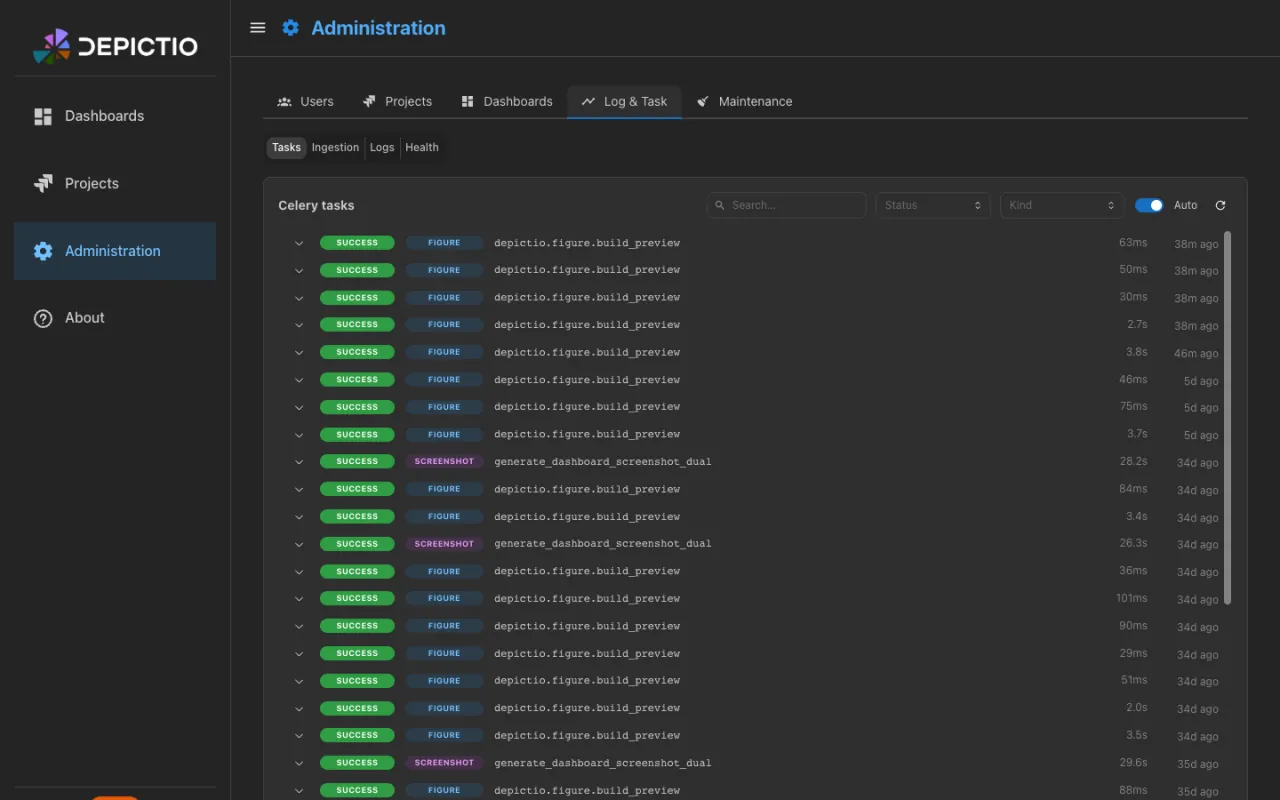
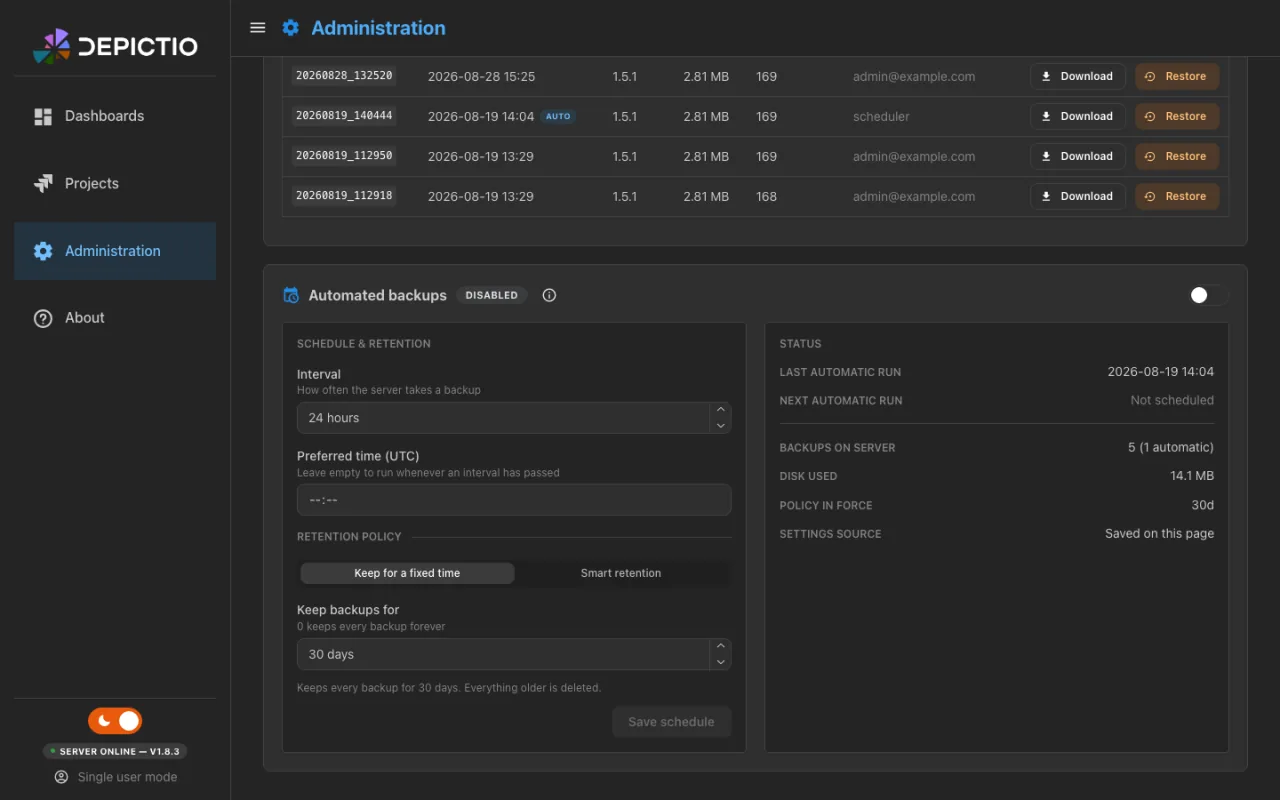
docs(landing): the Operate band shows the admin Backups tab
Replaces twenty identical figure.build_preview rows with the snapshots on
the server, one of them taken by the scheduler, above the schedule and
retention panel, and leads the copy with backups so image and prose agree.

Claude-Session: https://claude.ai/code/session_01Nf4c6hn9wbUq8buVF4tb3c

diff --git a/docs/index.md b/docs/index.md
@@ -532,8 +532,8 @@ hide:
 
     <article class="feature-row">
       <div class="feature-row-visual">
-        <button type="button" class="feature-frame" aria-label="Enlarge the screenshot: the admin Log and Task view">
-          <img class="only-light" src="images/landing/operate_light.webp" alt="The admin Log and Task view listing Celery tasks and ingestion runs" loading="lazy">
+        <button type="button" class="feature-frame" aria-label="Enlarge the screenshot: the admin Backups tab">
+          <img class="only-light" src="images/landing/operate_light.webp" alt="The admin Backups tab: the snapshots on the server, and the schedule and retention policy that produced them" loading="lazy">
           <img class="only-dark" src="images/landing/operate_dark.webp" alt="" loading="lazy">
           <span class="feature-zoom" aria-hidden="true"><svg xmlns="http://www.w3.org/2000/svg" viewBox="0 0 24 24"><path d="M15.5,14L20.5,19L19,20.5L14,15.5V14.71L13.73,14.43C12.59,15.41 11.11,16 9.5,16A6.5,6.5 0 0,1 3,9.5A6.5,6.5 0 0,1 9.5,3A6.5,6.5 0 0,1 16,9.5C16,11.11 15.41,12.59 14.43,13.73L14.71,14H15.5M9.5,14C12,14 14,12 14,9.5C14,7 12,5 9.5,5C7,5 5,7 5,9.5C5,12 7,14 9.5,14M12,10H10V12H9V10H7V9H9V7H10V9H12V10Z"/></svg></span>
         </button>
@@ -541,7 +541,7 @@ hide:
       <div class="feature-row-text">
         <span class="feature-kicker"><svg xmlns="http://www.w3.org/2000/svg" viewBox="0 0 24 24" aria-hidden="true"><path d="M12,15.5A3.5,3.5 0 0,1 8.5,12A3.5,3.5 0 0,1 12,8.5A3.5,3.5 0 0,1 15.5,12A3.5,3.5 0 0,1 12,15.5M19.43,12.97C19.47,12.65 19.5,12.33 19.5,12C19.5,11.67 19.47,11.34 19.43,11L21.54,9.37C21.73,9.22 21.78,8.95 21.66,8.73L19.66,5.27C19.54,5.05 19.27,4.96 19.05,5.05L16.56,6.05C16.04,5.66 15.5,5.32 14.87,5.07L14.5,2.42C14.46,2.18 14.25,2 14,2H10C9.75,2 9.54,2.18 9.5,2.42L9.13,5.07C8.5,5.32 7.96,5.66 7.44,6.05L4.95,5.05C4.73,4.96 4.46,5.05 4.34,5.27L2.34,8.73C2.21,8.95 2.27,9.22 2.46,9.37L4.57,11C4.53,11.34 4.5,11.67 4.5,12C4.5,12.33 4.53,12.65 4.57,12.97L2.46,14.63C2.27,14.78 2.21,15.05 2.34,15.27L4.34,18.73C4.46,18.95 4.73,19.03 4.95,18.95L7.44,17.94C7.96,18.34 8.5,18.68 9.13,18.93L9.5,21.58C9.54,21.82 9.75,22 10,22H14C14.25,22 14.46,21.82 14.5,21.58L14.87,18.93C15.5,18.67 16.04,18.34 16.56,17.94L19.05,18.95C19.27,19.03 19.54,18.95 19.66,18.73L21.66,15.27C21.78,15.05 21.73,14.78 21.54,14.63L19.43,12.97Z"/></svg><span>Operate</span></span>
         <h3>Run your own instance</h3>
-        <p>Depictio is meant to be self-hosted, and the admin panel is built for that: tasks, ingestion runs, logs and service health in one view, scheduled backups with a retention policy and a gated restore, users and groups, and branding down to the figure palette.</p>
+        <p>Depictio is meant to be self-hosted, and the admin panel is built for that: scheduled backups with a retention policy and a restore gated behind validation, tasks, ingestion runs, logs and service health in one view, users and groups, and branding down to the figure palette.</p>
         <a class="feature-link" href="usage/administration/monitoring/">Monitoring and tasks &rarr;</a>
       </div>
     </article>
